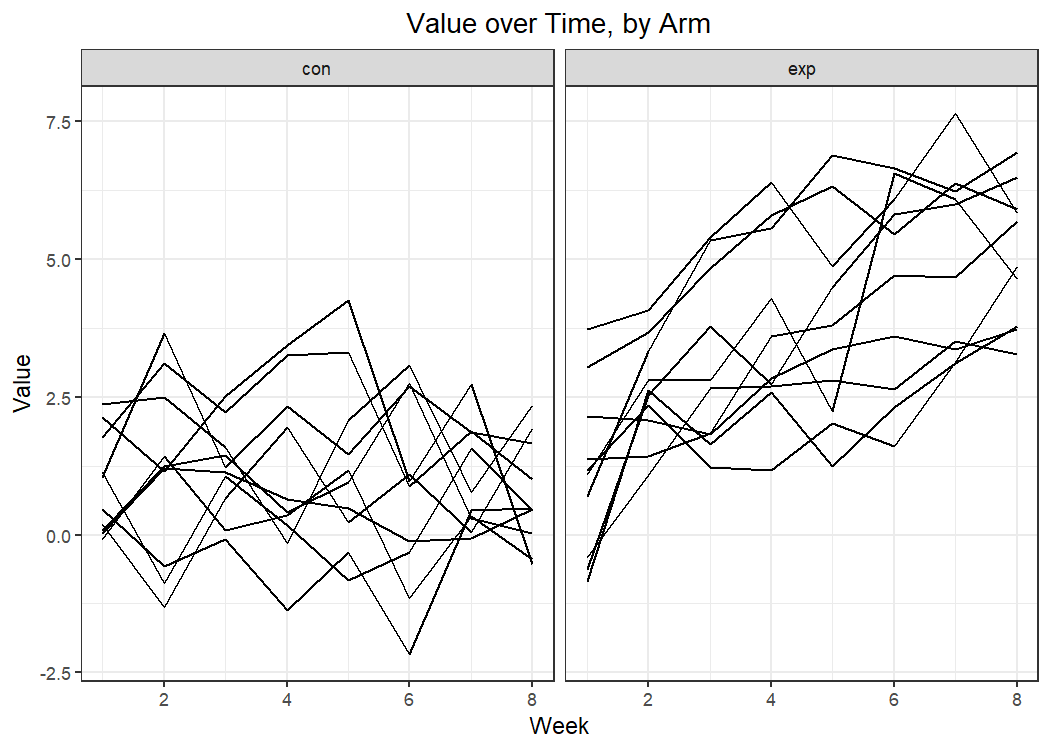
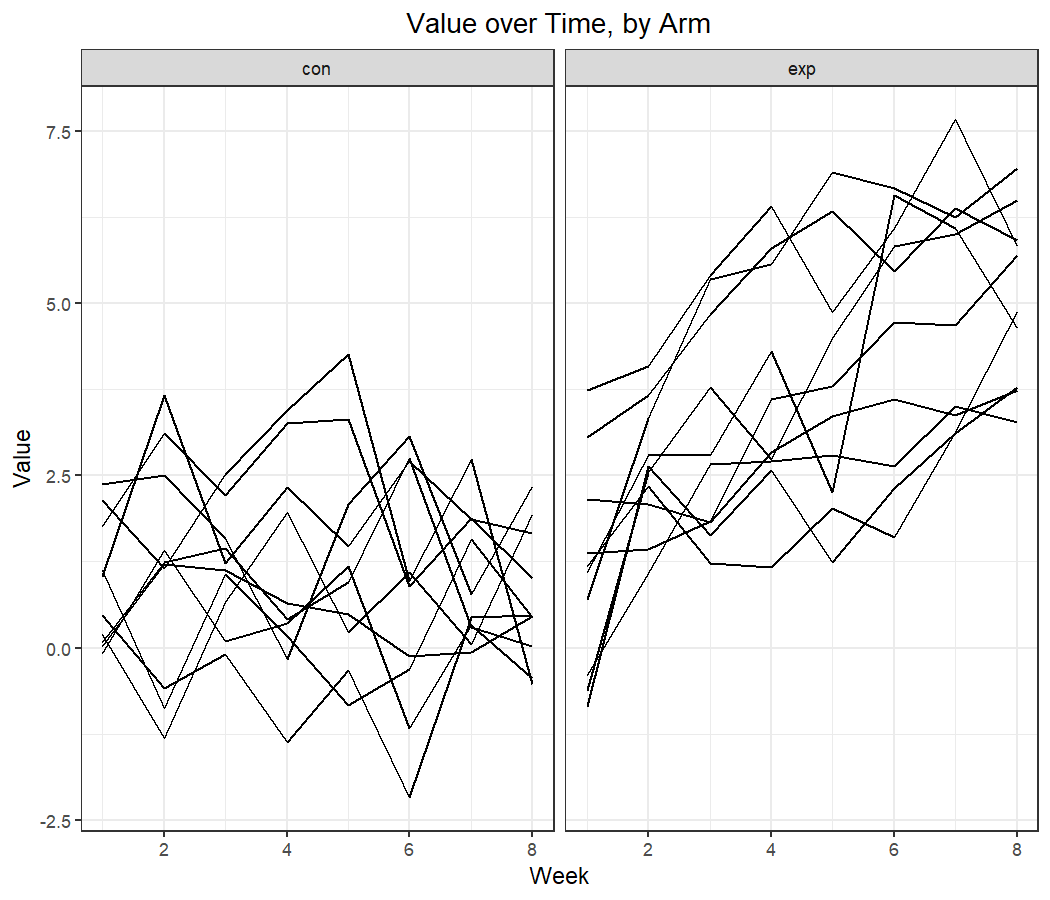
Finish P1&2 Fig.height adjusted

diff --git a/P8105_HW5_zk2275.md b/P8105_HW5_zk2275.md
@@ -4,10 +4,6 @@ Hw5<br>Zhuodiao Kuang(UNI: zk2275)
 
 - [Problem 1](#problem-1)
 - [Problem 2](#problem-2)
-- [create tidy dataset for longitudinal
-  study](#create-tidy-dataset-for-longitudinal-study)
-- [create a spaghetti chart of the
-  data](#create-a-spaghetti-chart-of-the-data)
 - [Problem 3](#problem-3)
 
 <!------------------------------------------------------------------------------------------
@@ -1361,7 +1357,7 @@ Problem 2
 We next consider (ostensibly fictional) data from a longitudinal study
 that included a control arm and an experimental arm.
 
-# create tidy dataset for longitudinal study
+#### create tidy dataset for longitudinal study
 
 ``` r
 lda_df = 
@@ -1570,7 +1566,7 @@ dataset is uniquely identified by the arm type (control or
 experimental), the subject ID, and the week. It is now a simple task to
 visualize the trend of values over time by arm type.
 
-# create a spaghetti chart of the data
+#### Create a spaghetti chart of the data
 
 ``` r
 lda_df %>%
